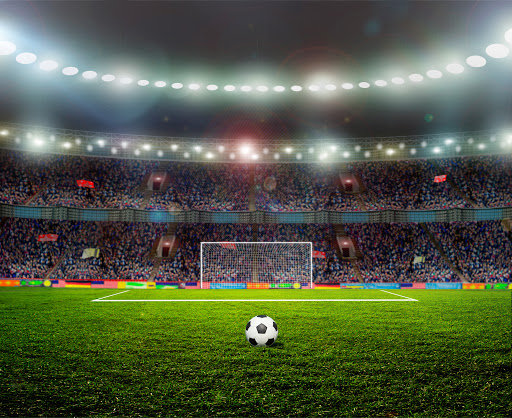
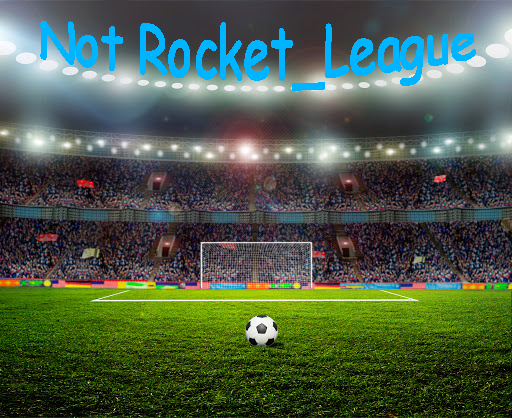
Speltitel tillagd på menyns bakgrund.

Changed region(s): [[0.0625, 0.0311, 0.5938, 0.1866], [0.5625, 0.0622, 0.9375, 0.2177]]

diff --git a/clientProjekt2/client2.c b/clientProjekt2/client2.c
@@ -509,7 +509,7 @@ bool init()
     bool test = true;
     SDL_Init(SDL_INIT_VIDEO);
 //    TTF_Init();
-    window = SDL_CreateWindow("Not Rocket League", SDL_WINDOWPOS_UNDEFINED,SDL_WINDOWPOS_UNDEFINED, WINDOW_WIDTH, WINDOW_HEIGTH, SDL_WINDOW_SHOWN);
+    window = SDL_CreateWindow("Not Rocket_League", SDL_WINDOWPOS_UNDEFINED,SDL_WINDOWPOS_UNDEFINED, WINDOW_WIDTH, WINDOW_HEIGTH, SDL_WINDOW_SHOWN);
       
     if(window == NULL)
     {
